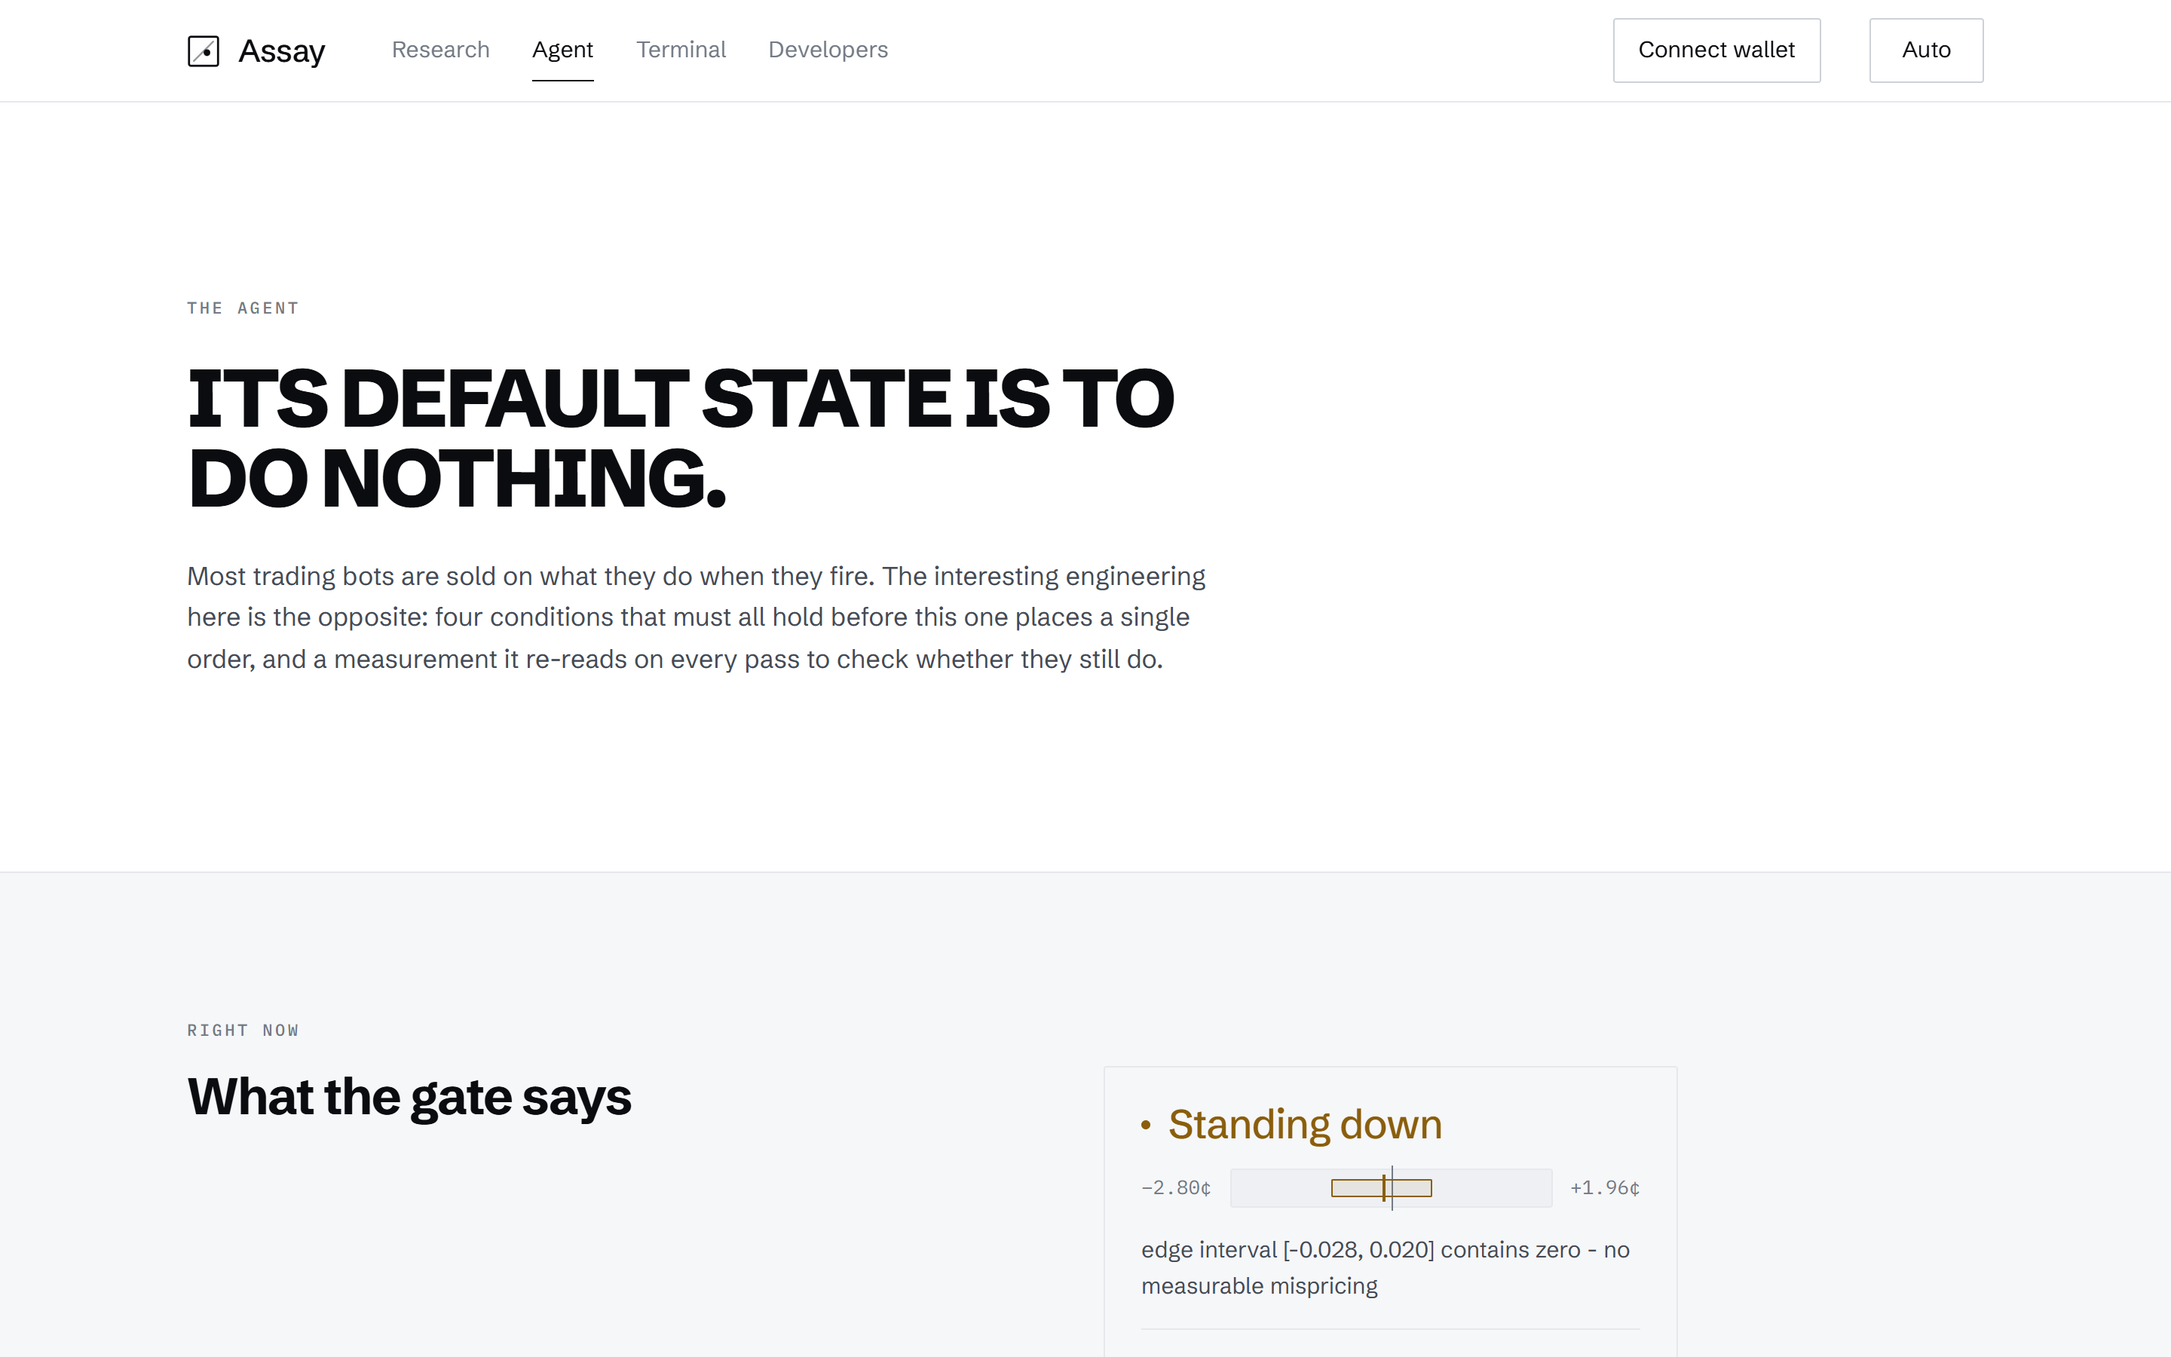
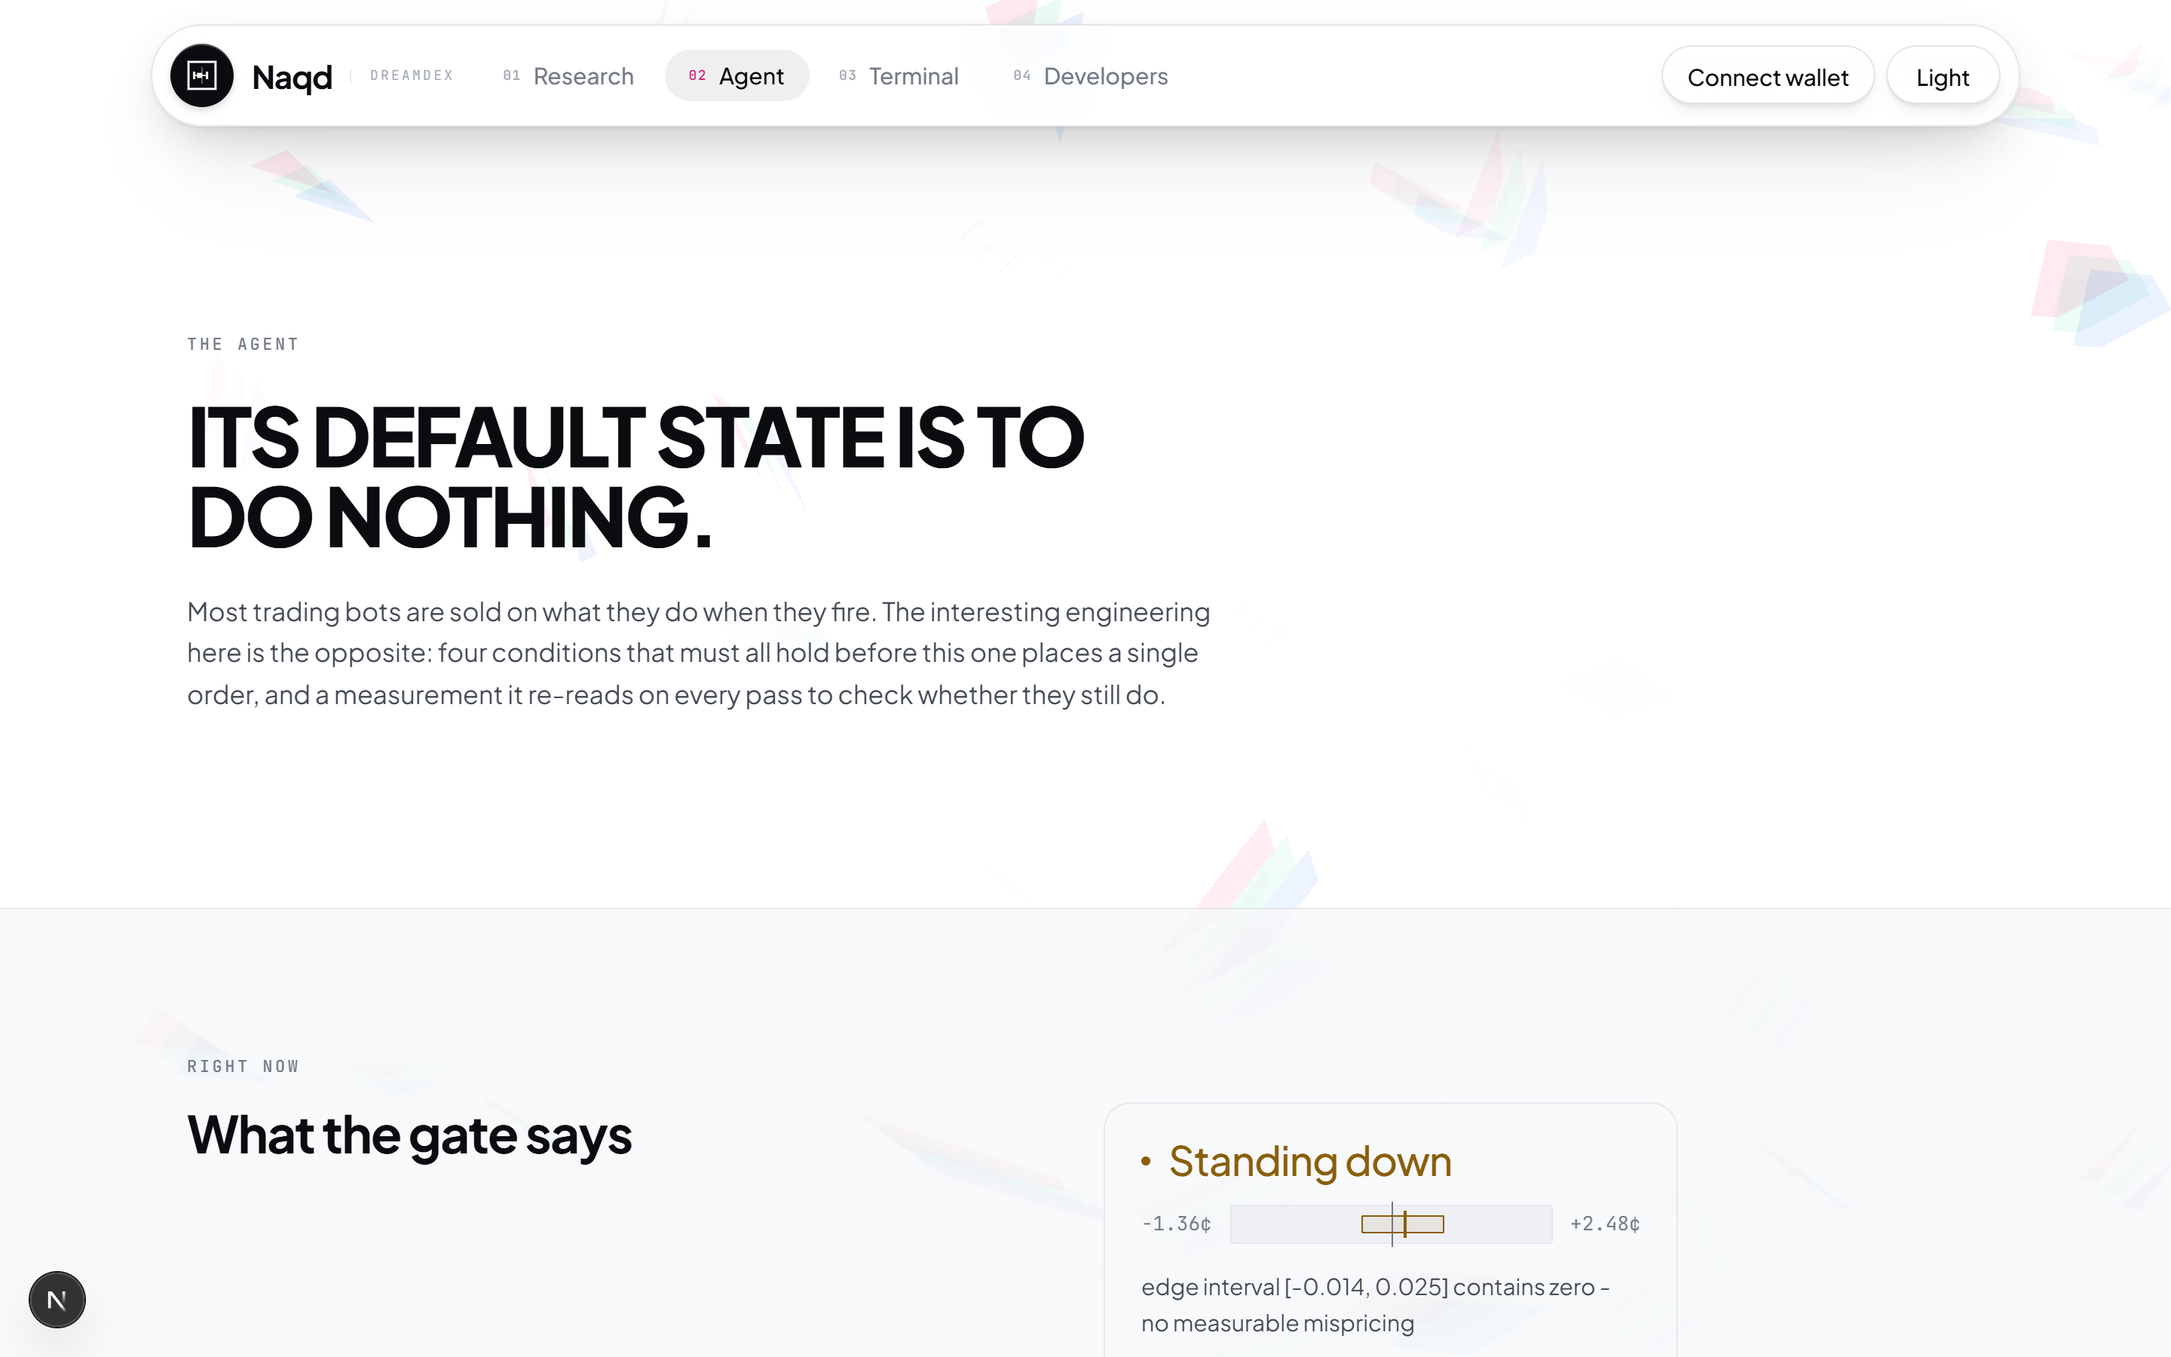
Recapture the screenshots and requote every figure
The README still opened on a hero that showed the old Assay branding and the
3D ribbon that was removed, and every number in it came from a store roughly
a third smaller than the current one.

Screenshots retaken against the running app at 1440x900 DPR 2, matching the
originals: light for the publication surfaces, dark for the terminal. The
research page finally gets an image, having had one in docs all along that
nothing referenced.

Numbers requoted throughout from npm run verify, which now checks nineteen
rows rather than fourteen: the three maker-edge estimators and the weekly
maker ROI series are checked too, so finding 6 cannot go stale silently the
way it just did.

The pull quote described the ribbon's shading, so it now describes what the
hero actually does: put our fair value beside the venue's price and say
no edge when the interval covers zero.

The loadMarkets callout also said the binary tier was a UI concern. It is
not only that: on a 45-second requote loop a five-minute market list means
the agent's first pass never completes, and a full mainnet pass now runs in
15 seconds.

diff --git a/src/cli/verify.ts b/src/cli/verify.ts
@@ -9,7 +9,7 @@ import { openDb } from "../db/schema.js";
 import { baseRate, scoredFills, scoredMarkets } from "../analytics/queries.js";
 import { calibrationReport } from "../analytics/calibration.js";
 import { edgeReport } from "../analytics/edge.js";
-import { makerVsTaker } from "../analytics/traders.js";
+import { makerVsTaker, makerEdgeReport } from "../analytics/traders.js";
 import { coverage, concentration } from "../analytics/liquidity.js";
 import { wilson } from "../analytics/stats.js";
 
@@ -22,27 +22,35 @@ const e = edgeReport(fills);
 const cov = coverage(db);
 const cc = concentration(db);
 const mv = makerVsTaker(fills);
+const me = makerEdgeReport(fills);
 const c = (x: number) => `${x >= 0 ? "+" : ""}${(x * 100).toFixed(2)}c`;
 const tot = db.prepare("SELECT COUNT(*) n FROM markets").get() as { n: number };
 
+const pc = (x: number) => `${x >= 0 ? "+" : "-"}${Math.abs(x * 100).toFixed(2)}%`;
+
 const rows: [string, string, string][] = [
-  ["markets total", String(tot.n), "9,040"],
-  ["resolved", String(br.n), "9,027"],
-  ["base rate", `${(br.rate * 100).toFixed(2)}%`, "50.30%"],
-  ["base rate CI", wilson(br.up, br.n).map((x) => `${(x * 100).toFixed(2)}%`).join("-"), "49.27%-51.34%"],
-  ["traded markets", String(markets.length), "1,627"],
-  ["fills", String(fills.length), "3,696"],
-  ["brier skill", cal.brierSkill.toFixed(3), "0.514"],
-  ["naive", `${c(e.naive.mean)} [${e.naive.ci95.map(c).join(", ")}] t=${e.naive.t.toFixed(2)}`, "-3.88c [-5.15c, -2.62c] t=-6.03"],
-  ["clustered", `${c(e.clustered.mean)} [${e.clustered.ci95.map(c).join(", ")}] t=${e.clustered.t.toFixed(2)}`, "-2.06c [-3.76c, -0.37c] t=-2.39"],
-  ["bootstrap", `${c(e.bootstrap.mean)} [${e.bootstrap.ci95.map(c).join(", ")}] crossesZero=${e.bootstrap.crossesZero}`, "-2.06c [-4.92c, +0.66c] true"],
-  ["weekly means", e.weekly.filter((w) => w.n >= 20).map((w) => c(w.mean)).join(" "), "-0.46c +0.81c -6.64c -4.00c +0.82c"],
-  ["coverage", `${(cov.overall.coverage * 100).toFixed(1)}%`, "18.0%"],
-  ["maker/taker ROI", `${(mv.maker.roi * 100).toFixed(2)}% / ${(mv.taker.roi * 100).toFixed(2)}%`, "+0.11% / -0.17%"],
-  ["takers/top/HHI", `${cc.distinctTakers} ${(cc.topTakerShare * 100).toFixed(0)}% ${cc.takerHHI.toFixed(3)}`, "133 15% 0.077"],
+  ["markets total", String(tot.n), "13,910"],
+  ["resolved", String(br.n), "13,883"],
+  ["base rate", `${(br.rate * 100).toFixed(2)}%`, "50.16%"],
+  ["base rate CI", wilson(br.up, br.n).map((x) => `${(x * 100).toFixed(2)}%`).join("-"), "49.33%-50.99%"],
+  ["traded markets", String(markets.length), "2,451"],
+  ["fills", String(fills.length), "5,060"],
+  ["brier skill", cal.brierSkill.toFixed(3), "0.551"],
+  ["naive", `${c(e.naive.mean)} [${e.naive.ci95.map(c).join(", ")}] t=${e.naive.t.toFixed(2)}`, "-2.76c [-3.81c, -1.71c] t=-5.17"],
+  ["clustered", `${c(e.clustered.mean)} [${e.clustered.ci95.map(c).join(", ")}] t=${e.clustered.t.toFixed(2)}`, "-1.22c [-2.54c, +0.11c] t=-1.79"],
+  ["bootstrap", `${c(e.bootstrap.mean)} [${e.bootstrap.ci95.map(c).join(", ")}] crossesZero=${e.bootstrap.crossesZero}`, "-1.22c [-3.98c, +0.67c] true"],
+  ["weekly means", e.weekly.filter((w) => w.n >= 20).map((w) => c(w.mean)).join(" "), "-0.46c +0.81c -6.64c -4.00c +0.19c +1.57c"],
+  ["coverage", `${(cov.overall.coverage * 100).toFixed(1)}%`, "17.7%"],
+  // Finding 6. The pooled row is quoted in the README only as the estimate that
+  // flipped; the two below it are the ones the text actually rests on.
+  ["maker/taker pooled", `${pc(mv.maker.roi)} / ${pc(mv.taker.roi)}`, "-2.75% / +3.01%"],
+  ["maker clustered", `${c(me.clustered.mean)} [${me.clustered.ci95.map(c).join(", ")}] t=${me.clustered.t.toFixed(2)}`, "-1.83c [-2.90c, -0.76c] t=-3.34"],
+  ["maker bootstrap", `${c(me.bootstrap.mean)} [${me.bootstrap.ci95.map(c).join(", ")}] crossesZero=${me.bootstrap.crossesZero}`, "-1.83c [-3.09c, +0.45c] true"],
+  ["maker weekly ROI", me.weekly.filter((w) => w.n >= 20).map((w) => pc(w.roi)).join(" "), "+0.15% +4.96% -8.56% +6.82% -4.16% -9.40%"],
+  ["takers/top/HHI", `${cc.distinctTakers} ${(cc.topTakerShare * 100).toFixed(0)}% ${cc.takerHHI.toFixed(3)}`, "144 17% 0.076"],
 ];
 
-console.log(`${"metric".padEnd(17)}${"computed".padEnd(46)}README`);
+console.log(`${"metric".padEnd(19)}${"computed".padEnd(46)}README`);
 console.log("-".repeat(100));
-for (const [k, got, want] of rows) console.log(`${k.padEnd(17)}${got.padEnd(46)}${want}`);
+for (const [k, got, want] of rows) console.log(`${k.padEnd(19)}${got.padEnd(46)}${want}`);
 db.close();

diff --git a/README.md b/README.md
@@ -16,9 +16,9 @@ Built for the [Somnia × DreamDEX Event Contracts Hackathon](https://dorahacks.i
 
 ![Naqd](docs/web-home.png)
 
-> The hero backdrop is not decoration. It is the venue&rsquo;s real calibration curve rendered as
-> light: the diagonal of perfect pricing, and every price bucket sitting off it by exactly as much
-> as it actually missed by.
+> Beside the venue&rsquo;s live price sits the price our measurement says is right, and the gap
+> between them. When the interval covers zero the page says **no edge** rather than inventing a
+> number, which is most of the time, and is the point.
 
 ---
 
@@ -36,18 +36,18 @@ and then refused to stop at the first answer.
 
 ## What we found
 
-Measured on **9,040 binary markets** from the mainnet venue `0x458b30c2…`, of which 9,027 resolved
-and 1,627 traded, carrying 3,696 fills.
+Measured on **13,910 binary markets** from the mainnet venue `0x458b30c2…`, of which 13,883 resolved
+and 2,451 traded, carrying 5,060 fills.
 
 ### 1. The underlying is a coin flip
 
-The window closed up **50.30%** of the time, 95% CI **[49.27%, 51.34%]** - indistinguishable from
-50%, and consistent across both assets and both cadences. There is no drift to harvest, so any edge
-has to come from the *price* being wrong.
+The window closed up **50.16%** of the time, 95% CI **[49.33%, 50.99%]** - indistinguishable from
+50%, and consistent across both assets and all three cadences. There is no drift to harvest, so any
+edge has to come from the *price* being wrong.
 
 ### 2. Prices are informative, but miscalibrated
 
-Brier skill of **0.514** against an always-50% forecaster, so the prices carry real information.
+Brier skill of **0.551** against an always-50% forecaster, so the prices carry real information.
 But the calibration curve bends away from the diagonal at both ends.
 
 ![Calibration curve](docs/calibration.png)
@@ -65,33 +65,58 @@ difference between a real finding and an artifact of aggregation.**
 
 | Estimator | Mean error | 95% interval | Reading |
 |---|---:|---:|---|
-| Per fill (naive) | −3.88¢ | [−5.15¢, −2.62¢] | t = −6.03 · "obviously real" |
-| Clustered by market | −2.06¢ | [−3.76¢, −0.37¢] | t = −2.39 · worth a look |
-| Week-block bootstrap | −2.06¢ | **[−4.92¢, +0.66¢]** | **straddles zero** |
+| Per fill (naive) | −2.76¢ | [−3.81¢, −1.71¢] | t = −5.17 · "obviously real" |
+| Clustered by market | −1.22¢ | [−2.54¢, +0.11¢] | t = −1.79 · already gone |
+| Week-block bootstrap | −1.22¢ | **[−3.98¢, +0.67¢]** | **straddles zero** |
 
-The naive estimate counts 3,696 fills as independent observations when they are really 1,627 coin
+The naive estimate counts 5,060 fills as independent observations when they are really 2,451 coin
 flips - every fill inside one window shares a single outcome. That alone moves the t-statistic from
-−6.03 to −2.39. And the errors are correlated in *time* as well:
+−5.17 to −1.79, which is enough on its own to take the finding below significance. And the errors
+are correlated in *time* as well:
 
 ![Weekly pricing error](docs/weekly-edge.png)
 
-Weekly means run −0.5¢, +0.8¢, −6.6¢, −4.0¢, +0.8¢. **They change sign.** Resample whole weeks and
-the interval covers zero.
+Weekly means run −0.5¢, +0.8¢, −6.6¢, −4.0¢, +0.2¢, +1.6¢. **They change sign.** Resample whole
+weeks and the interval covers zero by a wide margin.
 
 > **A bot that hard-codes "always fade UP" is fitting last month's weather.** What the data supports
 > is measuring the edge continuously and standing down when it is not there.
 
 ### 5. Most markets never trade at all
 
-Only **18.0%** of settled markets saw a single trade. The venue's bottleneck is emptiness, not
+Only **17.7%** of settled markets saw a single trade. The venue's bottleneck is emptiness, not
 signal quality - which is why the agent's job is to *provide* liquidity, not take it.
 
-### 6. Makers get paid, takers do not
+### 6. Whether makers get paid is *not* established - and we caught ourselves getting this wrong
 
-Settled PnL splits **+0.11% ROI** to the passive side and **−0.17%** to the aggressive side, on a
-venue that charges zero fees, so the entire difference is the spread changing hands. It is a thin
-edge rather than a dramatic one, but it points consistently one way and it is free, so every order
-this project places is post-only.
+An earlier snapshot of this venue put settled PnL at **+0.11% ROI** to the passive side against
+**−0.17%** to the aggressive side, and this README used to present that as a finding, with
+post-only ordering justified by it. Re-running the same code over a store roughly 50% larger
+returned **−2.75%** to makers and **+3.01%** to takers. The number did not shift. It *flipped*.
+
+The reason is embarrassing and worth stating plainly: that estimate was a pooled mean over fills,
+with no clustering and no interval - **exactly the mistake finding 4 exists to catch**, committed
+two headings later in our own document. Given the identical three-stage treatment:
+
+| Estimator | Maker edge | 95% interval | Reading |
+|---|---:|---:|---|
+| Pooled per fill | −1.83¢ | *no interval reported* | how we got it wrong |
+| Clustered by market | −1.83¢ | [−2.90¢, −0.76¢] | t = −3.34 · clears zero |
+| Week-block bootstrap | −1.83¢ | **[−3.09¢, +0.45¢]** | **straddles zero** |
+
+Weekly maker ROI runs **+0.15%, +4.96%, −8.56%, +6.82%, −4.16%, −9.40%** - four sign changes in six
+weeks. So the honest statement is that on this venue, over this history, we cannot tell whether
+liquidity provision is paid.
+
+The agent is still **post-only**, but the justification changed, and that matters more than the
+number did. Resting is not a claimed edge here; it is risk control. A post-only order that would
+cross is *rejected* rather than filled, so a book that moved while we were deciding costs nothing.
+On a venue where four markets in five never trade, supplying liquidity is the useful thing to do
+whichever way the split happens to point that week.
+
+> Every headline number in this section is now produced by `npm run analyze` and checked by
+> `npm run verify`, and the figures by `npm run charts`. That is the whole reason this section
+> could be caught being wrong at all.
 
 ---
 
@@ -147,16 +172,16 @@ two are each wrong on their own.
 
 ```mermaid
 flowchart TD
-  A["6,906 binary markets<br/>from the indexer"] --> B{"finalized<br/>and not voided?"}
+  A["13,910 binary markets<br/>from the indexer"] --> B{"finalized<br/>and not voided?"}
   B -->|no| X["excluded - a voided market pays<br/>both sides 0.5, and an unresolved<br/>one reads winner = 0"]
-  B -->|yes| C["2,683 scored fills<br/>implied price vs realized outcome"]
+  B -->|yes| C["5,060 scored fills<br/>implied price vs realized outcome"]
 
-  C --> D["Naive: mean over fills<br/>−3.10c, t = −4.08"]
+  C --> D["Naive: mean over fills<br/>−2.76c, t = −5.17"]
   D --> E{"are fills<br/>independent?"}
-  E -->|"no - 20 fills in one<br/>window are one coin flip"| F["Cluster by market<br/>−2.59c, t = −2.48"]
+  E -->|"no - 20 fills in one<br/>window are one coin flip"| F["Cluster by market<br/>−1.22c, t = −1.79"]
 
   F --> G{"are markets<br/>independent in time?"}
-  G -->|"no - whole weeks run<br/>rich, then cheap"| H["Week-block bootstrap<br/>CI [−5.06c, +2.12c]"]
+  G -->|"no - whole weeks run<br/>rich, then cheap"| H["Week-block bootstrap<br/>CI [−3.98c, +0.67c]"]
 
   H --> I{"does the interval<br/>cross zero?"}
   I -->|yes| J["NO EDGE<br/>agent stands down"]
@@ -240,6 +265,8 @@ Three rules hold it together, and they live in [`web/app/system.css`](web/app/sy
 | `/terminal` | The trading desk |
 | `/developers` | The public API, with a live example response |
 
+![The research report](docs/web-research.png)
+
 `/`, `/research`, `/agent` and `/developers` are **server components**: they fetch the measurement on the server
 and ship it inside the HTML, revalidating every 60 seconds. Only `/terminal` runs on the client,
 because it holds a wallet and reads live chain state. Theme resolves before first paint via a small
@@ -259,11 +286,17 @@ opens the desk where the faucet works.
 > **The one SDK edge that is a performance bug, not a correctness bug.**
 > `exchange.loadMarkets()` walks every venue on the chain and builds a viem client per venue.
 > Measured against mainnet it takes **over five minutes** to return, cached or forced - so a UI
-> built on it never finishes connecting. The whole read path goes through the binary tier instead
+> built on it never finishes connecting. Every read path here goes through the binary tier instead
 > (`listLiveBinaryMarkets`, `getBinaryOrderBook`, `getFills`), which answers the same question in
 > **under two seconds**. Markets are keyed by `marketId` and books by `poolAddress`, never by a
 > unified symbol: a binary pool is *recycled* across successive markets, so a pool address does not
 > name a market for longer than one window.
+>
+> The agent obeys the same rule, and it is not only a UI concern there: on a 45-second requote loop
+> a five-minute market list means the first pass never completes. A full mainnet pass - six markets,
+> six on-chain status reads, six book reads - now runs in **15 seconds**. The book it prices against
+> is fetched by the pool the on-chain status gate just returned, not the indexer's copy, so the book
+> being read and the pool being quoted onto are the same object.
 
 ![The trading desk](docs/web-terminal.png)
 
@@ -385,6 +418,7 @@ contains nothing that is source.
 ```bash
 npm test             # 13 tests over the quoting policy and the statistics
 npm run verify       # re-derive every number quoted in this README
+npm run charts       # redraw the three figures above from the current store
 ```
 
 `npm run doctor` is the one to run first, and the one to run when something goes quiet. It is
@@ -438,12 +472,12 @@ are ten slices of one coin flip, so a wallet can post a 200% ROI over "10 trades
 exactly one position. Ranking without that filter puts single-bet wallets on top - the same artifact
 this project exists to catch elsewhere.
 
-**Concentration is reported next to the edge.** 133 distinct takers, largest holding 15% of flow, Herfindahl 0.077. A real market rather than one bot talking to itself, but a *small* one, and every
+**Concentration is reported next to the edge.** 144 distinct takers, largest holding 17% of flow, Herfindahl 0.076. A real market rather than one bot talking to itself, but a *small* one, and every
 number here should be read with that in mind.
 
 ### Known limits
 
-- The edge is estimated from ~1,627 traded markets over about three weeks. Enough to reject a
+- The edge is estimated from ~2,451 traded markets over about six weeks. Enough to reject a
   constant bias; not enough to characterise the regimes that replace it.
 - Settled PnL counts unredeemed winnings and does not model open inventory. It measures trading
   skill, not wallet balance.
